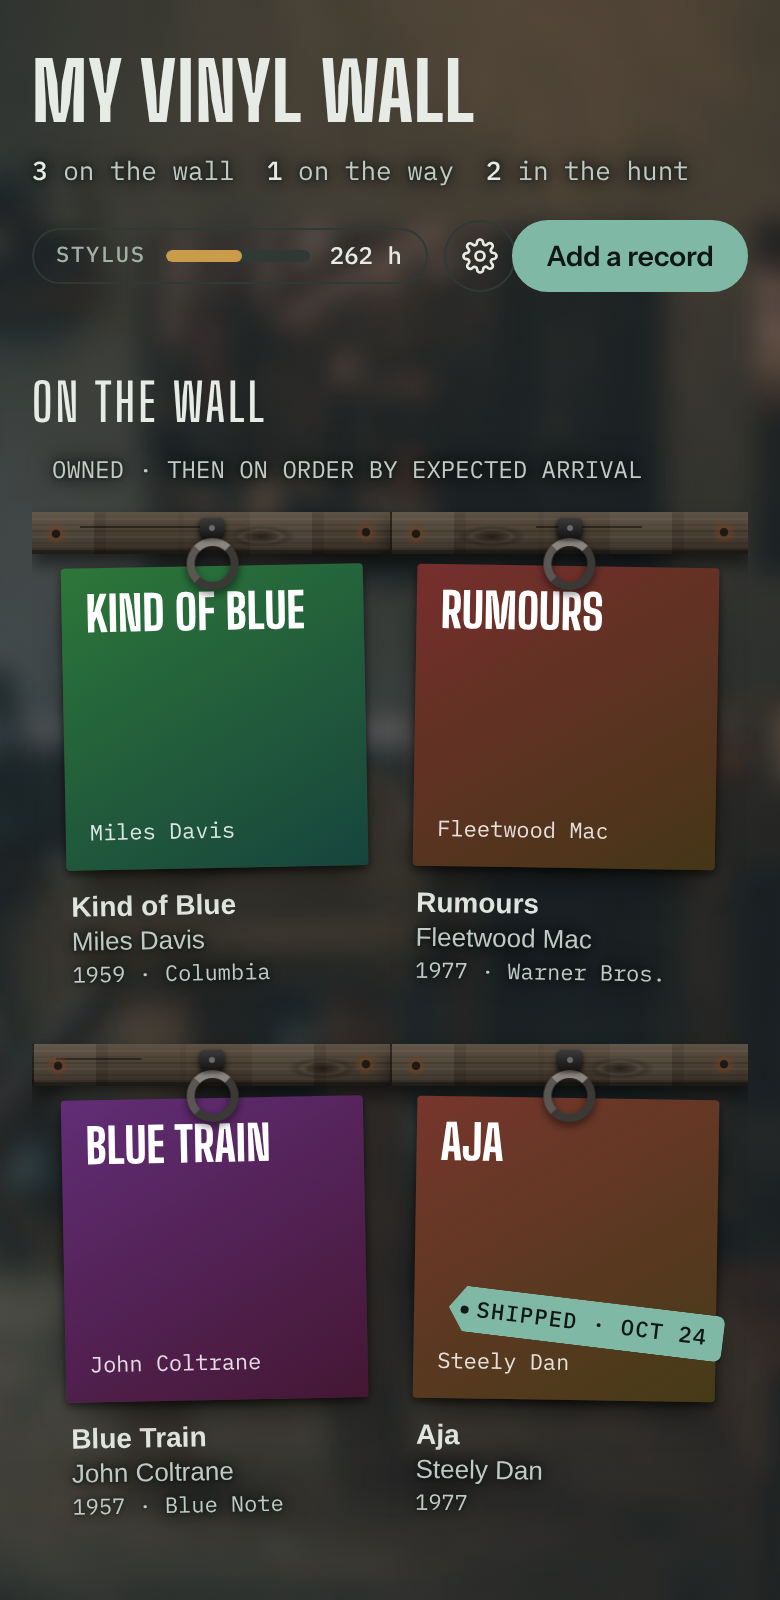
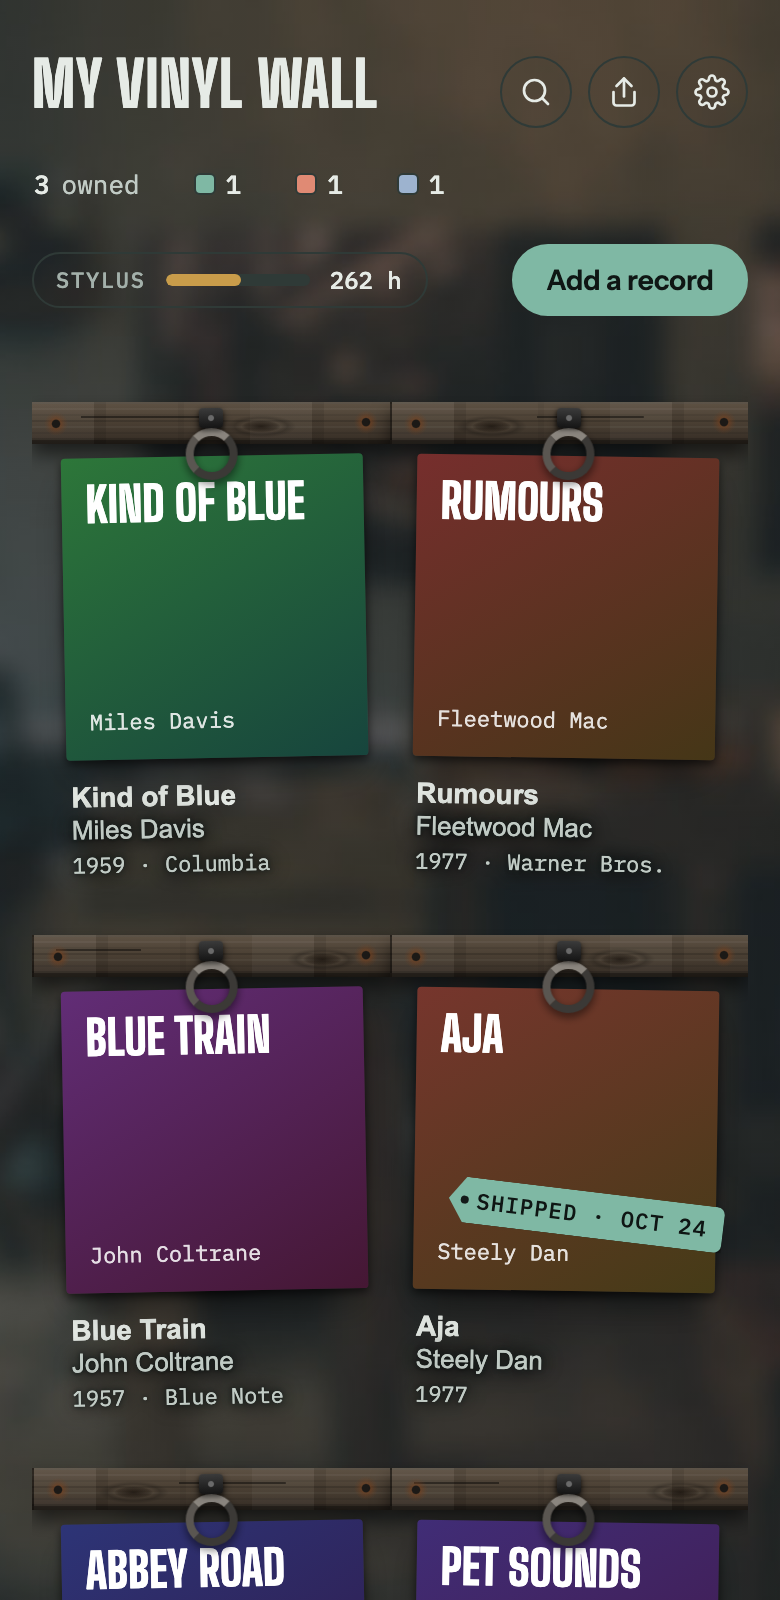
Search the wall (#15); README screenshots; 0.9.0, the 1.0 beta
A search icon beside Share and Settings opens a field under the counts line. Every
typed word must match the title, artist, label or year (capitals and accents
ignored); it combines with the badge filter, isn't remembered, and the share image
follows it. No matches says so with a way to clear. On phones the counts and the
search field get full-width rows under the title. README screenshots retaken from
the sample data; README marks 0.9.0 as the 1.0 beta.

diff --git a/app/vinyl-wall.html b/app/vinyl-wall.html
@@ -5,7 +5,7 @@
 <link rel="stylesheet" href="https://fonts.googleapis.com/css2?family=Big+Shoulders+Display:wght@600;800&family=Instrument+Sans:wght@400;500;600&family=IBM+Plex+Mono:wght@400;500&display=swap">
 <style>
 /* Layout: a listening-room wall. A weathered barnwood plank with iron rings runs across each row; sleeves hang from them.
-   One wall of every record, owned, on order and hunted, narrowed by the filter in the counts line. Detail opens in a side sheet. */
+   One wall of every record, owned, on order and hunted, narrowed by the filter in the counts line and by search. Detail opens in a side sheet. */
 :root{
   --wall:#dde2dc; --wall-2:#cfd6cf; --ink:#1b2220; --ink-2:#4b5753; --line:#b9c3bc;
   --rail:#6a462b; --rail-hi:#8b6140; --brass:#a77a2c; --accent:#2c5c4f; --accent-ink:#f2f5f1;
@@ -94,13 +94,16 @@ header.top>.headtext .tally{column-gap:6px;row-gap:4px}
 @media (max-width:640px){
   /* phones: share and Settings sit together top right beside the title; the gear pill and Add a record share the next row */
   /* three columns so the icons get a narrow one of their own at the right edge: the title spans everything left of them,
-     and Add a record spans the last two columns on the row below */
-  header.top{grid-template-columns:minmax(0,1fr) auto auto;gap:14px 12px}
-  header.top>.headtext{grid-column:1/3;grid-row:1}
-  header.top>.headtools{display:contents}
+     and Add a record spans the last two columns on the bottom row. The counts and search get full-width rows of their own
+     under the title, so the icons don't squeeze them; rows are spaced by margins since the hidden ones leave empty tracks */
+  header.top{grid-template-columns:minmax(0,1fr) auto auto;gap:0 12px}
+  header.top>.headtext,header.top>.headtools{display:contents}
+  header.top h1{grid-column:1/3;grid-row:1}
   .headicons{grid-column:3;grid-row:1;align-self:start;justify-self:end}
-  #stylusBtn{grid-column:1;grid-row:2;justify-self:start;align-self:center}
-  header.top>.actions{grid-column:2/4;grid-row:2;justify-self:end;align-self:center}
+  header.top .tally{grid-column:1/-1;grid-row:2}
+  header.top .searchbar{grid-column:1/-1;grid-row:3;max-width:none}
+  #stylusBtn{grid-column:1;grid-row:4;justify-self:start;align-self:center;margin-top:14px}
+  header.top>.actions{grid-column:2/4;grid-row:4;justify-self:end;align-self:center;margin-top:14px}
   header.top h1{font-size:clamp(30px,8vw,48px)}
 }
 #shareBtn[hidden]{display:none}
@@ -118,6 +121,12 @@ h1{font-family:var(--display);font-weight:800;font-size:clamp(40px,7vw,68px);lin
 .sw{width:9px;height:9px;border-radius:2px;background:var(--paper);box-shadow:0 0 0 1px var(--line)}
 /* phones: just each badge's color and count, on one line (owned has no badge, so it keeps its word); the words stay for screen readers */
 @media (max-width:640px){.fchip:not([data-f="own"]) .fl{position:absolute;width:1px;height:1px;overflow:hidden;clip-path:inset(50%);white-space:nowrap}}
+.searchbar{display:flex;gap:8px;align-items:center;margin-top:12px;max-width:420px}
+.searchbar[hidden]{display:none}
+.searchbar input{flex:1;min-width:0;border-radius:999px;padding:8px 14px}
+.searchbar .iconbtn{flex:none}
+#searchBtn[hidden]{display:none}
+#searchBtn[aria-expanded="true"]{background:color-mix(in srgb,var(--ink) 9%,transparent);border-color:var(--ink-2)}
 .sw.ship{background:var(--accent)}.sw.p1{background:var(--want)}.sw.p3{background:var(--someday)}
 .btn{font:600 14px/1 var(--body);border:1px solid var(--line);background:transparent;color:var(--ink);border-radius:999px;padding:10px 16px;cursor:pointer}
 .btn:hover{border-color:var(--ink-2)}
@@ -384,9 +393,11 @@ fieldset.gsec>p.hint{margin-bottom:12px}
     <div class="headtext">
       <h1 id="pageTitle">My Vinyl Wall</h1>
       <div class="tally" id="filters" role="group" aria-label="Show on the wall"><button class="fchip" type="button" data-f="own"><b>0</b><span class="fl"> owned</span></button><button class="fchip" type="button" data-f="ord"><i class="sw ship"></i><b>0</b><span class="fl"> on the way</span></button><button class="fchip" type="button" data-f="p1"><i class="sw p1"></i><b>0</b><span class="fl"> top want</span></button><button class="fchip" type="button" data-f="p2"><i class="sw"></i><b>0</b><span class="fl"> want</span></button><button class="fchip" type="button" data-f="p3"><i class="sw p3"></i><b>0</b><span class="fl"> someday</span></button></div>
+      <div class="searchbar" id="searchBar" role="search" hidden><input type="search" id="q" placeholder="Title, artist, label or year" aria-label="Search the wall" autocomplete="off" enterkeyhint="search"><button class="iconbtn" id="qClear" type="button" aria-label="Clear search" title="Clear search"><svg viewBox="0 0 24 24" fill="none" stroke="currentColor" stroke-width="1.8" stroke-linecap="round" aria-hidden="true"><path d="M6 6l12 12M18 6L6 18"/></svg></button></div>
     </div>
     <div class="headtools"><button class="stylus" id="stylusBtn" type="button" aria-label="Equipment and stylus wear"><span class="lbl" id="gearLbl">Gear</span><span class="meter" id="stylusMeter"><i style="width:0%"></i></span><span class="hrs" id="stylusHrs">—</span></button>
-      <span class="headicons"><button class="iconbtn editonly" id="shareBtn" type="button" aria-label="Share your wall" title="Share your wall" hidden><svg viewBox="0 0 24 24" fill="none" stroke="currentColor" stroke-width="1.8" stroke-linecap="round" stroke-linejoin="round" aria-hidden="true"><path d="M12 3v12"/><path d="M7 8l5-5 5 5"/><path d="M5 12v7a2 2 0 0 0 2 2h10a2 2 0 0 0 2-2v-7"/></svg></button>
+      <span class="headicons"><button class="iconbtn" id="searchBtn" type="button" aria-label="Search the wall" title="Search the wall" aria-expanded="false" aria-controls="searchBar" hidden><svg viewBox="0 0 24 24" fill="none" stroke="currentColor" stroke-width="1.8" stroke-linecap="round" stroke-linejoin="round" aria-hidden="true"><circle cx="11" cy="11" r="7"/><path d="M20 20l-3.5-3.5"/></svg></button>
+      <button class="iconbtn editonly" id="shareBtn" type="button" aria-label="Share your wall" title="Share your wall" hidden><svg viewBox="0 0 24 24" fill="none" stroke="currentColor" stroke-width="1.8" stroke-linecap="round" stroke-linejoin="round" aria-hidden="true"><path d="M12 3v12"/><path d="M7 8l5-5 5 5"/><path d="M5 12v7a2 2 0 0 0 2 2h10a2 2 0 0 0 2-2v-7"/></svg></button>
       <button class="iconbtn editonly" id="settingsBtn" type="button" aria-label="Settings" title="Settings"><svg viewBox="0 0 24 24" fill="none" stroke="currentColor" stroke-width="1.8" stroke-linecap="round" stroke-linejoin="round" aria-hidden="true"><circle cx="12" cy="12" r="3"/><path d="M19.4 15a1.7 1.7 0 0 0 .3 1.8l.1.1a2 2 0 1 1-2.8 2.8l-.1-.1a1.7 1.7 0 0 0-1.8-.3 1.7 1.7 0 0 0-1 1.5V21a2 2 0 1 1-4 0v-.1a1.7 1.7 0 0 0-1.1-1.5 1.7 1.7 0 0 0-1.8.3l-.1.1a2 2 0 1 1-2.8-2.8l.1-.1a1.7 1.7 0 0 0 .3-1.8 1.7 1.7 0 0 0-1.5-1H3a2 2 0 1 1 0-4h.1a1.7 1.7 0 0 0 1.5-1.1 1.7 1.7 0 0 0-.3-1.8l-.1-.1a2 2 0 1 1 2.8-2.8l.1.1a1.7 1.7 0 0 0 1.8.3H9a1.7 1.7 0 0 0 1-1.5V3a2 2 0 1 1 4 0v.1a1.7 1.7 0 0 0 1 1.5 1.7 1.7 0 0 0 1.8-.3l.1-.1a2 2 0 1 1 2.8 2.8l-.1.1a1.7 1.7 0 0 0-.3 1.8V9a1.7 1.7 0 0 0 1.5 1H21a2 2 0 1 1 0 4h-.1a1.7 1.7 0 0 0-1.5 1z"/></svg></button></span></div>
     <div class="actions">
       <button class="btn primary editonly" id="addBtn" type="button">Add a record</button>
@@ -408,6 +419,7 @@ fieldset.gsec>p.hint{margin-bottom:12px}
   <section class="wallsec" aria-label="Records">
     <div class="rack" id="rack"></div>
     <div class="empty" id="emptyWall" hidden>Nothing hanging yet. Add a record you own, or one you're hunting for.</div>
+    <div class="empty" id="noMatch" hidden><span id="noMatchMsg"></span> <button class="linkbtn" type="button" id="noMatchClear" style="margin:0;font-size:inherit;color:var(--accent)">Clear the search</button></div>
   </section>
   <div class="status" id="status">Loading the wall…</div>
 </div>
@@ -500,21 +512,34 @@ function wallLists(){
 const FKEYS=["own","ord","p1","p2","p3"],FLABEL={own:"owned",ord:"on the way",p1:"top want",p2:"want",p3:"someday"};
 function fkey(r){return r.status==="ordered"?"ord":r.status==="wish"?(r.priority==1?"p1":r.priority==3?"p3":"p2"):"own"}
 let wallFilter=new Set();try{for(const k of JSON.parse(localStorage.getItem("rw.filter")||"[]")) if(FKEYS.includes(k)) wallFilter.add(k)}catch(e){}
+// search: every typed word must appear in the title, artist, label or year; capitals and accents don't matter. Not remembered.
+const fold=t=>String(t??"").normalize("NFD").replace(/[\u0300-\u036f]/g,"").toLowerCase();
+function searchWords(){return $("#searchBar").hidden?[]:fold($("#q").value).split(/\s+/).filter(Boolean)}
+function matches(r,words){const hay=fold([r.title,r.artist,r.label,r.year].join(" "));return words.every(w=>hay.includes(w))}
 function shownList(){
   const {own,ord,wish}=wallLists(),all=own.concat(ord,wish),n={};for(const r of all) n[fkey(r)]=(n[fkey(r)]||0)+1;
-  const on=FKEYS.filter(k=>wallFilter.has(k)&&n[k]);
-  return {n,on,list:on.length?all.filter(r=>on.includes(fkey(r))):all};
+  const on=FKEYS.filter(k=>wallFilter.has(k)&&n[k]),words=searchWords();
+  return {n,on,words,list:all.filter(r=>(!on.length||on.includes(fkey(r)))&&(!words.length||matches(r,words)))};
 }
+function closeSearch(){$("#q").value="";$("#searchBar").hidden=true;$("#searchBtn").setAttribute("aria-expanded","false");render()}
+$("#searchBtn").addEventListener("click",()=>{if(!$("#searchBar").hidden)return closeSearch();
+  $("#searchBar").hidden=false;$("#searchBtn").setAttribute("aria-expanded","true");$("#q").focus()});
+$("#q").addEventListener("input",()=>render());
+$("#q").addEventListener("keydown",e=>{if(e.key==="Escape"){e.stopPropagation();closeSearch();$("#searchBtn").focus()}});
+$("#qClear").addEventListener("click",()=>{closeSearch();$("#searchBtn").focus()});
+$("#noMatchClear").addEventListener("click",()=>{closeSearch();$("#searchBtn").focus()});
 $("#filters").addEventListener("click",e=>{const b=e.target.closest(".fchip");if(!b)return;const k=b.dataset.f;
   wallFilter.has(k)?wallFilter.delete(k):wallFilter.add(k);
   try{localStorage.setItem("rw.filter",JSON.stringify([...wallFilter]))}catch(e){}
   render()});
 function render(){
   {const seen=new Set();records=records.filter(r=>!seen.has(r.id)&&seen.add(r.id));}
-  const {n,on,list}=shownList();
+  const {n,on,words,list}=shownList();
   syncRack($("#rack"),list);
   for(const id of sleeveCache.keys()) if(!records.some(r=>r.id===id)) sleeveCache.delete(id);
-  $("#emptyWall").hidden=list.length>0;
+  $("#emptyWall").hidden=list.length>0||records.length>0; $("#noMatch").hidden=list.length>0||!records.length;
+  if(!list.length&&records.length) $("#noMatchMsg").textContent=`Nothing on the wall matches “${$("#q").value.trim()}”${on.length?" with this filter":""}.`;
+  $("#searchBtn").hidden=!records.length;
   for(const b of document.querySelectorAll(".fchip")){const k=b.dataset.f;
     b.querySelector("b").textContent=n[k]||0; b.hidden=!n[k]; b.setAttribute("aria-pressed",String(on.includes(k)))}
   if(openId&&!String(openId).startsWith("__")){const r=records.find(x=>x.id===openId); if(!r) closeSheet();}
@@ -1116,7 +1141,7 @@ $("#stylusBtn").addEventListener("click",()=>openGear());
 // ---------- Settings: title, background, Discogs
 const BG_PRESETS=[["listening","Listening room"],["crates","Crate digging"],["cafe","Coffee shop"],["tavern","Cozy tavern"],["grille","Speaker grille"],["pegboard","Pegboard"],["grooves","Grooves"],["walnut","Walnut paneling"],["foam","Studio foam"],["sunburst","Sunburst"],["spines","Crate dig"],["felt","Felt slipmat"],["plain","Plain wall"]];
 const DEFAULT_TITLE="My Vinyl Wall";
-const APP_VERSION="0.6.1"; // stamped per release; must match VERSION (the release workflow checks)
+const APP_VERSION="0.9.0"; // stamped per release; must match VERSION (the release workflow checks)
 const REPO_URL="https://github.com/ober37/vinyl-wall";
 const DEFAULT_BG="listening";
 // softened photo presets and their credits (shown in Settings, repeated in the README)
@@ -1435,7 +1460,7 @@ async function drawShare(withImages){
   const F={title:'800 84px "Big Shoulders Display"',gen:'800 22px "Big Shoulders Display"',
     cap:'600 20px "Instrument Sans"',by:'400 17px "Instrument Sans"',mono:'500 20px "IBM Plex Mono"',small:'500 13px "IBM Plex Mono"',tag:'500 13px "IBM Plex Mono"'};
   await Promise.all(Object.values(F).map(f=>document.fonts.load(f).catch(()=>{})));
-  const {n,on,list}=shownList();
+  const {list}=shownList();
   const pad=60,gap=24,sw=(SHARE_W-2*pad-(SHARE_COLS-1)*gap)/SHARE_COLS,railH=20,rowH=36+sw+64+28;
   const H=pad+100+76+Math.ceil(Math.min(list.length,SHARE_MAX)/SHARE_COLS)*rowH+(list.length>SHARE_MAX?40:0)+pad;
   const shown=list.slice(0,SHARE_MAX);
@@ -1452,7 +1477,8 @@ async function drawShare(withImages){
   let y=pad;glow(true);
   ctx.fillStyle=C.ink;ctx.font=F.title;ctx.fillText(fitText(ctx,((settings.title||"").trim()||DEFAULT_TITLE).toUpperCase(),SHARE_W-2*pad),pad,y);y+=100;
   ctx.fillStyle=C.ink2;ctx.font=F.mono;
-  ctx.fillText(FKEYS.filter(k=>n[k]&&(!on.length||on.includes(k))).map(k=>n[k]+" "+FLABEL[k]).join("  ·  "),pad,y);y+=76;glow(false);
+  const shownN={};for(const r of list) shownN[fkey(r)]=(shownN[fkey(r)]||0)+1;
+  ctx.fillText(FKEYS.filter(k=>shownN[k]).map(k=>shownN[k]+" "+FLABEL[k]).join("  ·  "),pad,y);y+=76;glow(false);
   for(let i=0;i<shown.length;i+=SHARE_COLS){
     const row=shown.slice(i,i+SHARE_COLS),rw=row.length*sw+(row.length-1)*gap;
     const g=ctx.createLinearGradient(0,y,0,y+railH);g.addColorStop(0,"#5e5244");g.addColorStop(.5,"#4a3f33");g.addColorStop(1,"#2f2820");

diff --git a/README.md b/README.md
@@ -4,17 +4,19 @@ A record wall for your vinyl collection, built to run in [Claude](https://claude
 
 Your records hang on a rack with their real album covers. Keep a wishlist of the ones you're hunting, track orders on the way, write notes and a listening log for each album, and log wear on your turntable, cartridge and stylus. Optionally, keep it all in sync with your Discogs collection and wantlist.
 
+**0.9.0 is the 1.0 beta.** Everything planned for 1.0 is in. Try it and [tell us what works and what doesn't](https://github.com/ober37/vinyl-wall/issues/new/choose) before 1.0.
+
 ![Vinyl Wall in dark mode](docs/screenshots/wall-dark.png)
 
 ## Set it up
 
 Paste this into a new Claude conversation:
 
-> Set up a Vinyl Wall for me by following the instructions at https://raw.githubusercontent.com/ober37/vinyl-wall/v0.6.1/SETUP.md
+> Set up a Vinyl Wall for me by following the instructions at https://raw.githubusercontent.com/ober37/vinyl-wall/v0.9.0/SETUP.md
 
 Claude publishes the wall as your own private page, creates the background task that finds covers and syncs Discogs, and walks you through the rest. It takes a few minutes. Your records, notes and settings belong to your account only; nothing is shared with this project.
 
-**Updating.** When a new version is out, a dot appears on the wall's Settings button and Settings says an update is available. Settings shows a sentence to send Claude, with a Copy button; paste it into a chat and Claude updates the wall. Your records and settings stay as they are. (Walls set up before in-app updates existed need one manual update: ask Claude *"Update my Vinyl Wall using https://raw.githubusercontent.com/ober37/vinyl-wall/v0.6.1/SETUP.md"*, with the newest version number.)
+**Updating.** When a new version is out, a dot appears on the wall's Settings button and Settings says an update is available. Settings shows a sentence to send Claude, with a Copy button; paste it into a chat and Claude updates the wall. Your records and settings stay as they are. (Walls set up before in-app updates existed need one manual update: ask Claude *"Update my Vinyl Wall using https://raw.githubusercontent.com/ober37/vinyl-wall/v0.9.0/SETUP.md"*, with the newest version number.)
 
 ### What your Claude setup needs
 
@@ -26,7 +28,7 @@ If something's missing, Claude tells you before building anything.
 
 ## Features
 
-- **The wall.** Every record hangs from iron rings on a weathered barnwood plank: what you own, then orders on the way by expected arrival, then the hunt by priority. Tags show each record's status, and tapping the counts under the title filters the wall to one or more of them. Hover (or tap) a sleeve to open it.
+- **The wall.** Every record hangs from iron rings on a weathered barnwood plank: what you own, then orders on the way by expected arrival, then the hunt by priority. Tags show each record's status, and tapping the counts under the title filters the wall to one or more of them. Search by title, artist, label or year to find a record fast. Hover (or tap) a sleeve to open it.
 - **The hunt.** A wishlist with priorities (Top want, Want, Someday), a budget, and a target pressing. One-click search links (Discogs, eBay, MusicStack, Popsike) and optional research from Claude on which pressings to look for.
 - **Automatic details.** Add just an artist and album: the cover, year, label and runtime are looked up for you.
 - **Your copy.** Media and sleeve grades, catalog number, pressing, matrix/runout, where you bought it and what you paid.

diff --git a/docs/ROADMAP.md b/docs/ROADMAP.md
@@ -8,6 +8,7 @@ Vinyl Wall runs inside Claude, so a one-off question or fix ("point this record 
 
 1. **First outside install** by a tester, from the setup link alone.
 
+Done in v0.9.0, the 1.0 beta: search the wall (#15).
 Done in v0.6.1: a simpler "Add equipment" flow: pick the type, then only its fields (#8).
 Done in v0.6.0: one wall with status badges and filters (#13), and the version in Settings → Help.
 Done in v0.5.2: a share image of the wall to save or post, and a Help section in Settings.
@@ -20,10 +21,7 @@ Each item below is a [GitHub issue labeled enhancement](https://github.com/ober3
 
 ## 1.0
 
-Required for the 1.0 release ([milestone](https://github.com/ober37/vinyl-wall/milestone/1)).
-
-### Search the wall (#15)
-Type a few letters to find a record. To be scoped after #8.
+Everything in the [1.0 milestone](https://github.com/ober37/vinyl-wall/milestone/1) shipped in v0.9.0, the 1.0 beta. 1.0.0 follows once beta feedback is in.
 
 ## Future, roughly in order of fit
 

diff --git a/SETUP.md b/SETUP.md
@@ -2,10 +2,10 @@
 
 These instructions are written for **Claude** to follow on behalf of the person who asked to set up (or update) a Vinyl Wall. If you are a person, you don't need to read this: paste the prompt from the [README](README.md) into Claude.
 
-Release: **v0.6.1**. All file links below point at this tag. Replace `v0.6.1` only if the person asks for a different version.
+Release: **v0.9.0**. All file links below point at this tag. Replace `v0.9.0` only if the person asks for a different version.
 
 ```
-BASE = https://raw.githubusercontent.com/ober37/vinyl-wall/v0.6.1
+BASE = https://raw.githubusercontent.com/ober37/vinyl-wall/v0.9.0
 ```
 
 ---
